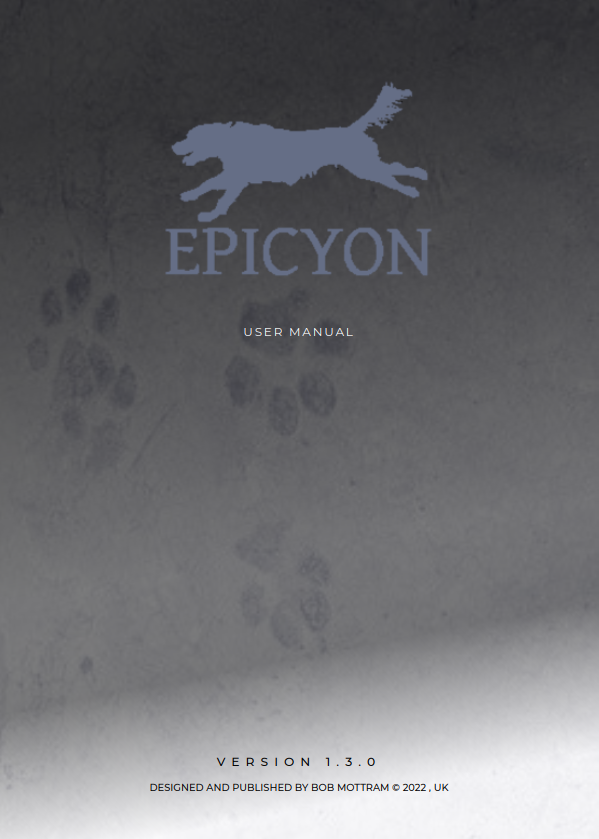
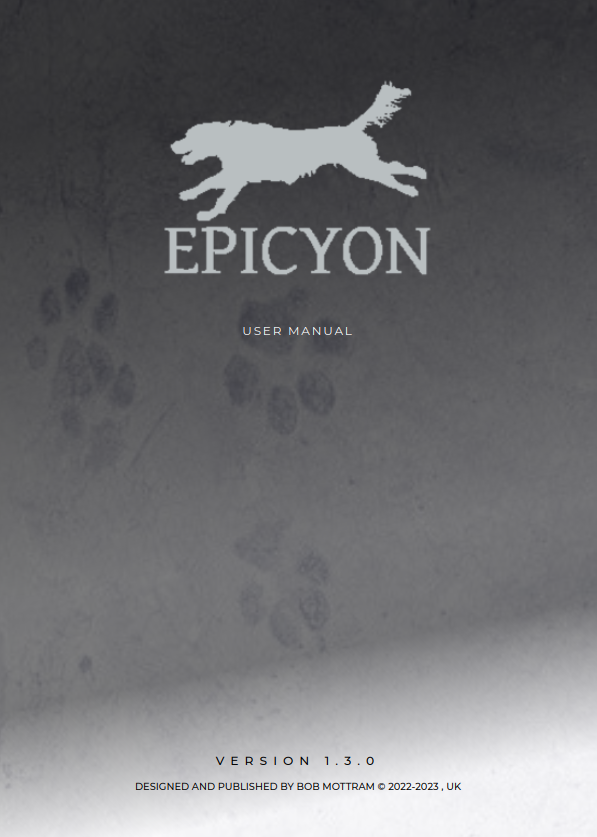
Manual cover colors

diff --git a/manual/cover/css/custom.css b/manual/cover/css/custom.css
@@ -35,7 +35,7 @@ body {
 }
 
 section {
-	width: 50%;
+	width: 100%;
 }
 
 img {
@@ -50,7 +50,7 @@ img {
 	align-items: center;
 	flex-wrap: wrap;
 	padding: 5% 10%;
-	background-color: #f89e9e;
+	background-color: darkgrey;
 }
 
 .front {
@@ -73,7 +73,7 @@ img {
 	background-image: url(../img/front.jpg);
 	background-repeat: no-repeat;
 	background-size: cover;
-	box-shadow: 15px 10px 15px #925656;
+	box-shadow: 15px 10px 15px lightgrey;
 }
 
 .sidebar {
@@ -141,6 +141,7 @@ img {
 
 .front .footer {
 	text-transform: uppercase;
+	color: black;
 	font-size: 8px;
 	margin: 30px;
 	font-weight: 900;

diff --git a/manual/cover/index.html b/manual/cover/index.html
@@ -16,7 +16,7 @@
                     <div class="thumbnail">
                         <div class="content">
                             <div class="header">
-                                <img class="logoImage" src="../../img/logo256.png" />
+                                <img class="logoImage" src="../../img/logo256_white.png" />
                                 <p class="subtitle">User Manual</p>
                             </div>
                             <div class="footer">
